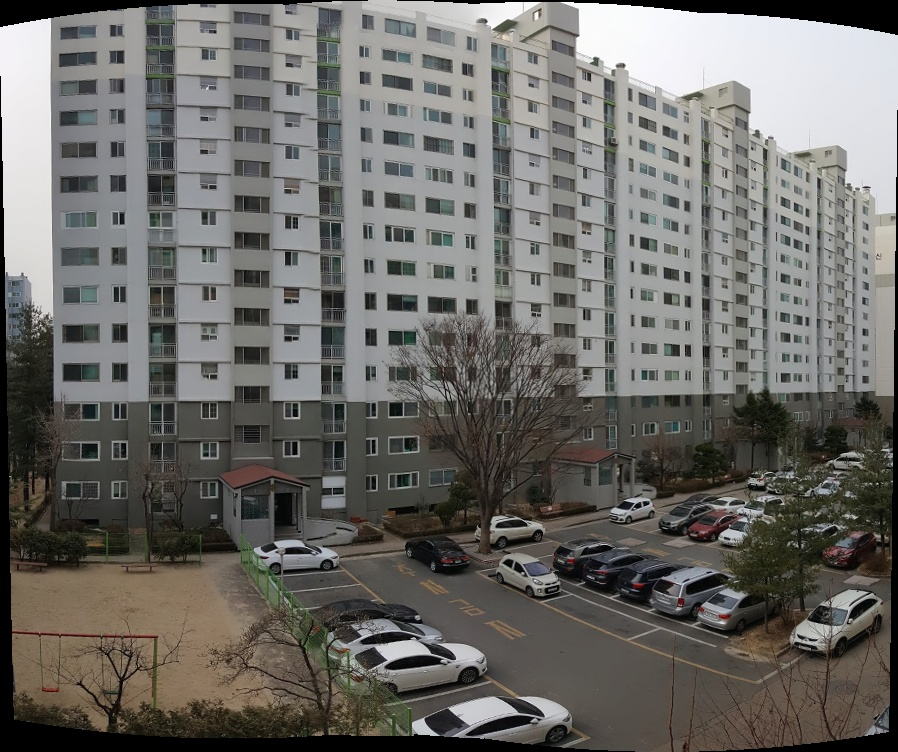
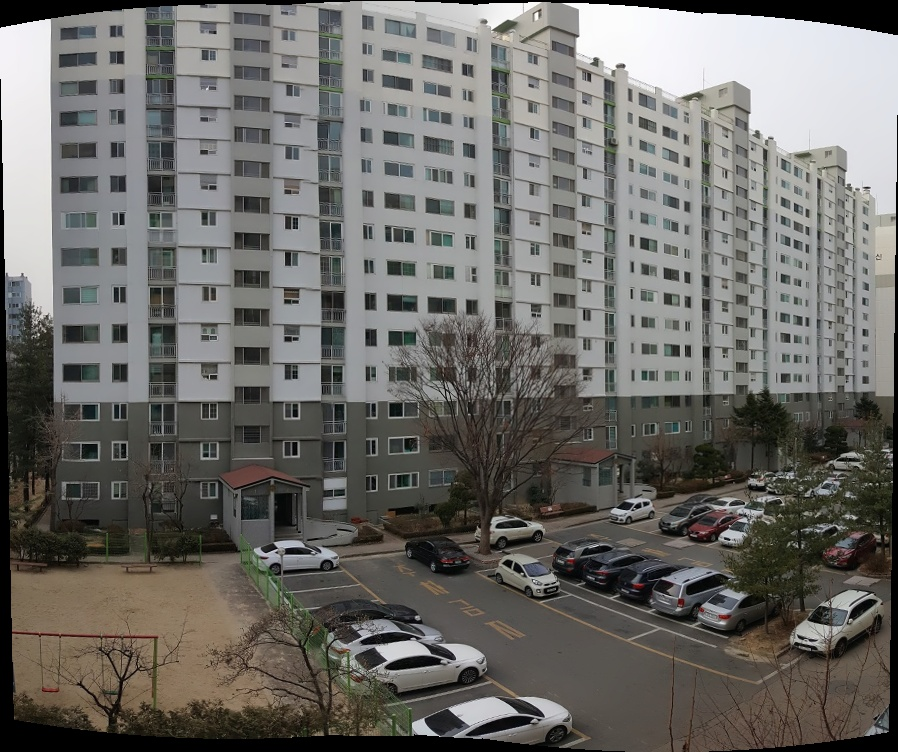
ch9 특징 검출/디스크립터/매칭

diff --git a/example/ch9/0920.py b/example/ch9/0920.py
@@ -1,0 +1,36 @@
+# 0920.py
+# 비디오 스티칭
+import cv2
+ 
+#1
+cap = cv2.VideoCapture('./data/stitch_videoInput.mp4')
+t = 0 
+images = []
+STEP = 20
+while True:
+    t += 1
+    retval, frame = cap.read()
+    if not retval:
+        break
+    img = cv2.resize(frame, dsize=(640, 480)) 
+    if t%STEP == 0:
+        images.append(img)
+        
+    cv2.imshow('img',img)
+    key = cv2.waitKey(25)
+    if key == 27: # Esc
+        break
+
+#2
+print('len(images)=', len(images))
+stitcher = cv2.Stitcher_create()
+
+status, dst = stitcher.stitch(images)
+if status == cv2.STITCHER_OK:
+    cv2.imwrite('./data/video_stitch_out.jpg', dst)
+    cv2.imshow('dst',dst)
+    cv2.waitKey()
+
+if cap.isOpened():
+    cap.release()
+cv2.destroyAllWindows()

diff --git a/example/ch9/0919.py b/example/ch9/0919.py
@@ -1,0 +1,21 @@
+# 0919.py
+# 영상 스티칭 2
+import cv2
+
+#1
+src1 = cv2.imread('./data/stitch_image1.jpg')
+src2 = cv2.imread('./data/stitch_image2.jpg')
+src3 = cv2.imread('./data/stitch_image3.jpg')
+src4 = cv2.imread('./data/stitch_image4.jpg')
+
+
+stitcher = cv2.Stitcher_create()
+status, dst2 = stitcher.stitch((src1, src2))
+status, dst3 = stitcher.stitch((dst2, src3))
+status, dst4 = stitcher.stitch((dst3, src4))
+
+cv2.imshow('dst2',  dst2)
+cv2.imshow('dst3',  dst3)
+cv2.imshow('dst4',  dst4)
+cv2.waitKey()
+cv2.destroyAllWindows()

diff --git a/example/ch9/0918.py b/example/ch9/0918.py
@@ -1,0 +1,15 @@
+# 0918.py
+# 영상 스트칭
+import cv2
+
+src1 = cv2.imread('./data/stitch_image1.jpg')
+src2 = cv2.imread('./data/stitch_image2.jpg')
+src3 = cv2.imread('./data/stitch_image3.jpg')
+src4 = cv2.imread('./data/stitch_image4.jpg')
+
+stitcher = cv2.Stitcher_create()
+status, dst = stitcher.stitch((src1, src2, src3, src4))
+cv2.imwrite('./data/stitch_out.jpg', dst)
+cv2.imshow('dst', dst)
+cv2.waitKey()
+cv2.destroyAllWindows()

diff --git a/example/ch9/0917.py b/example/ch9/0917.py
@@ -16,7 +16,7 @@ dst1 = src.copy()
 w, h = hog.winSize
 for pt in loc1:
     x, y = pt
-    cv2.rectangle(dst, (x, y), (x+w, y+h), (255,0,0),2)
+    cv2.rectangle(dst1, (x, y), (x+w, y+h), (255,0,0),2)
 cv2.imshow('dst1',  dst1)
 
 #2